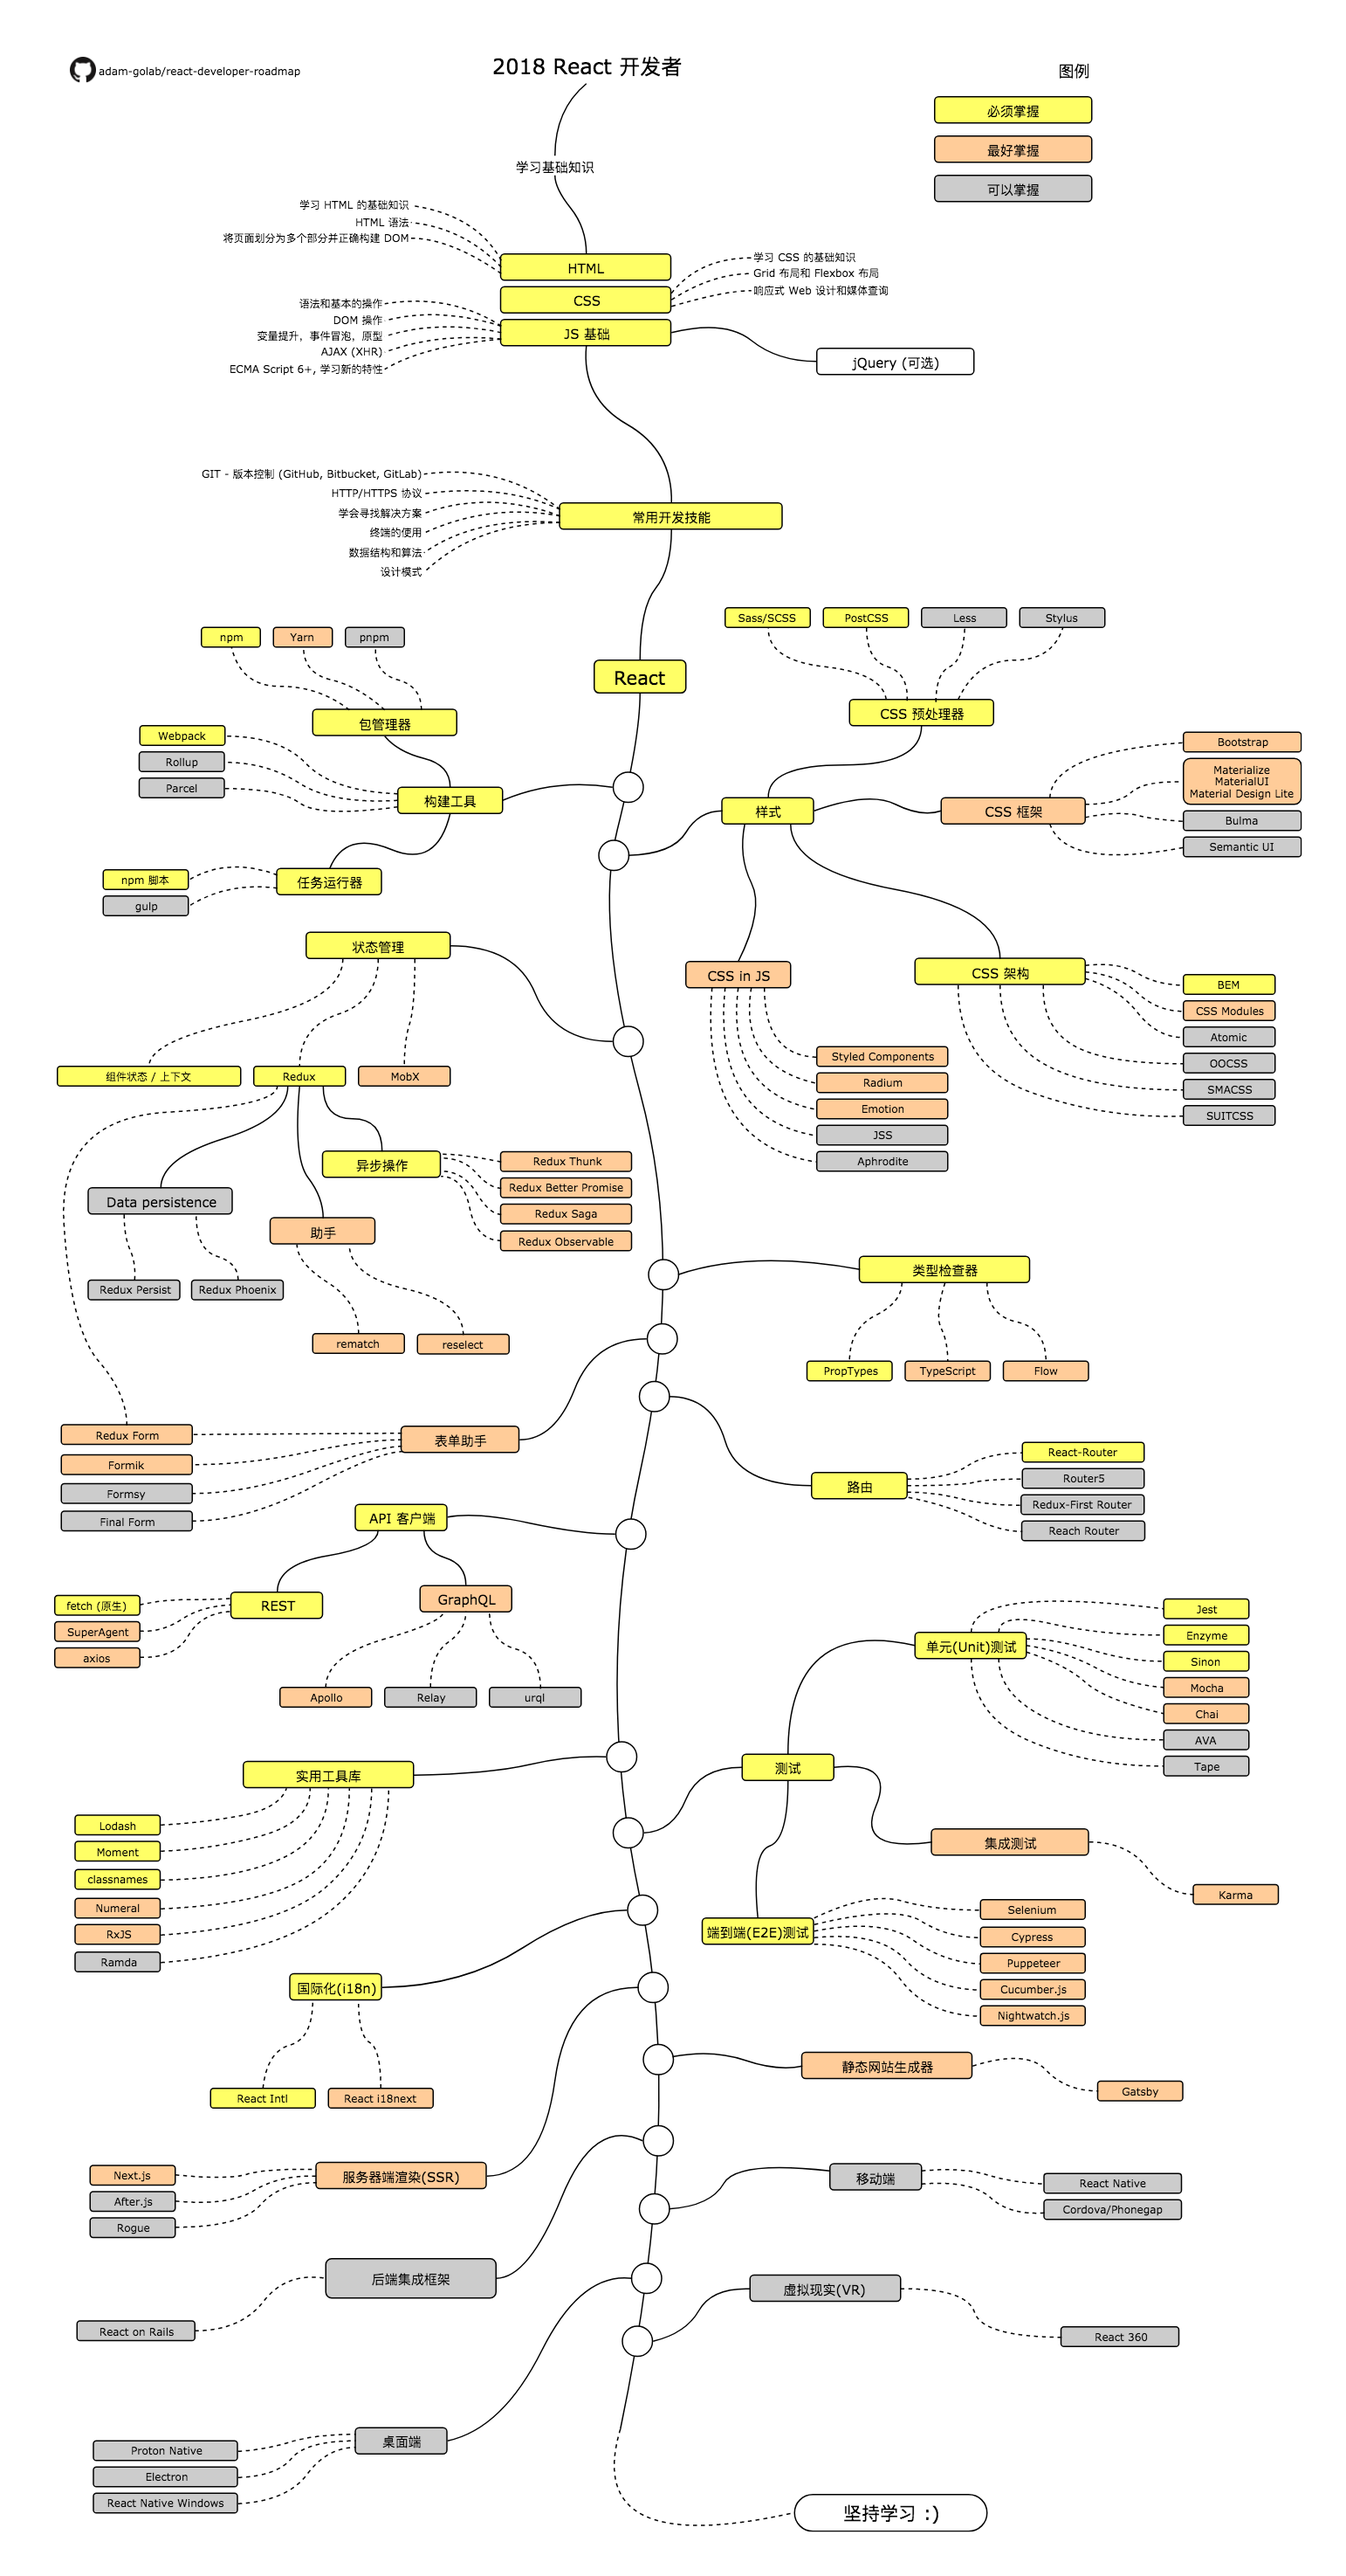
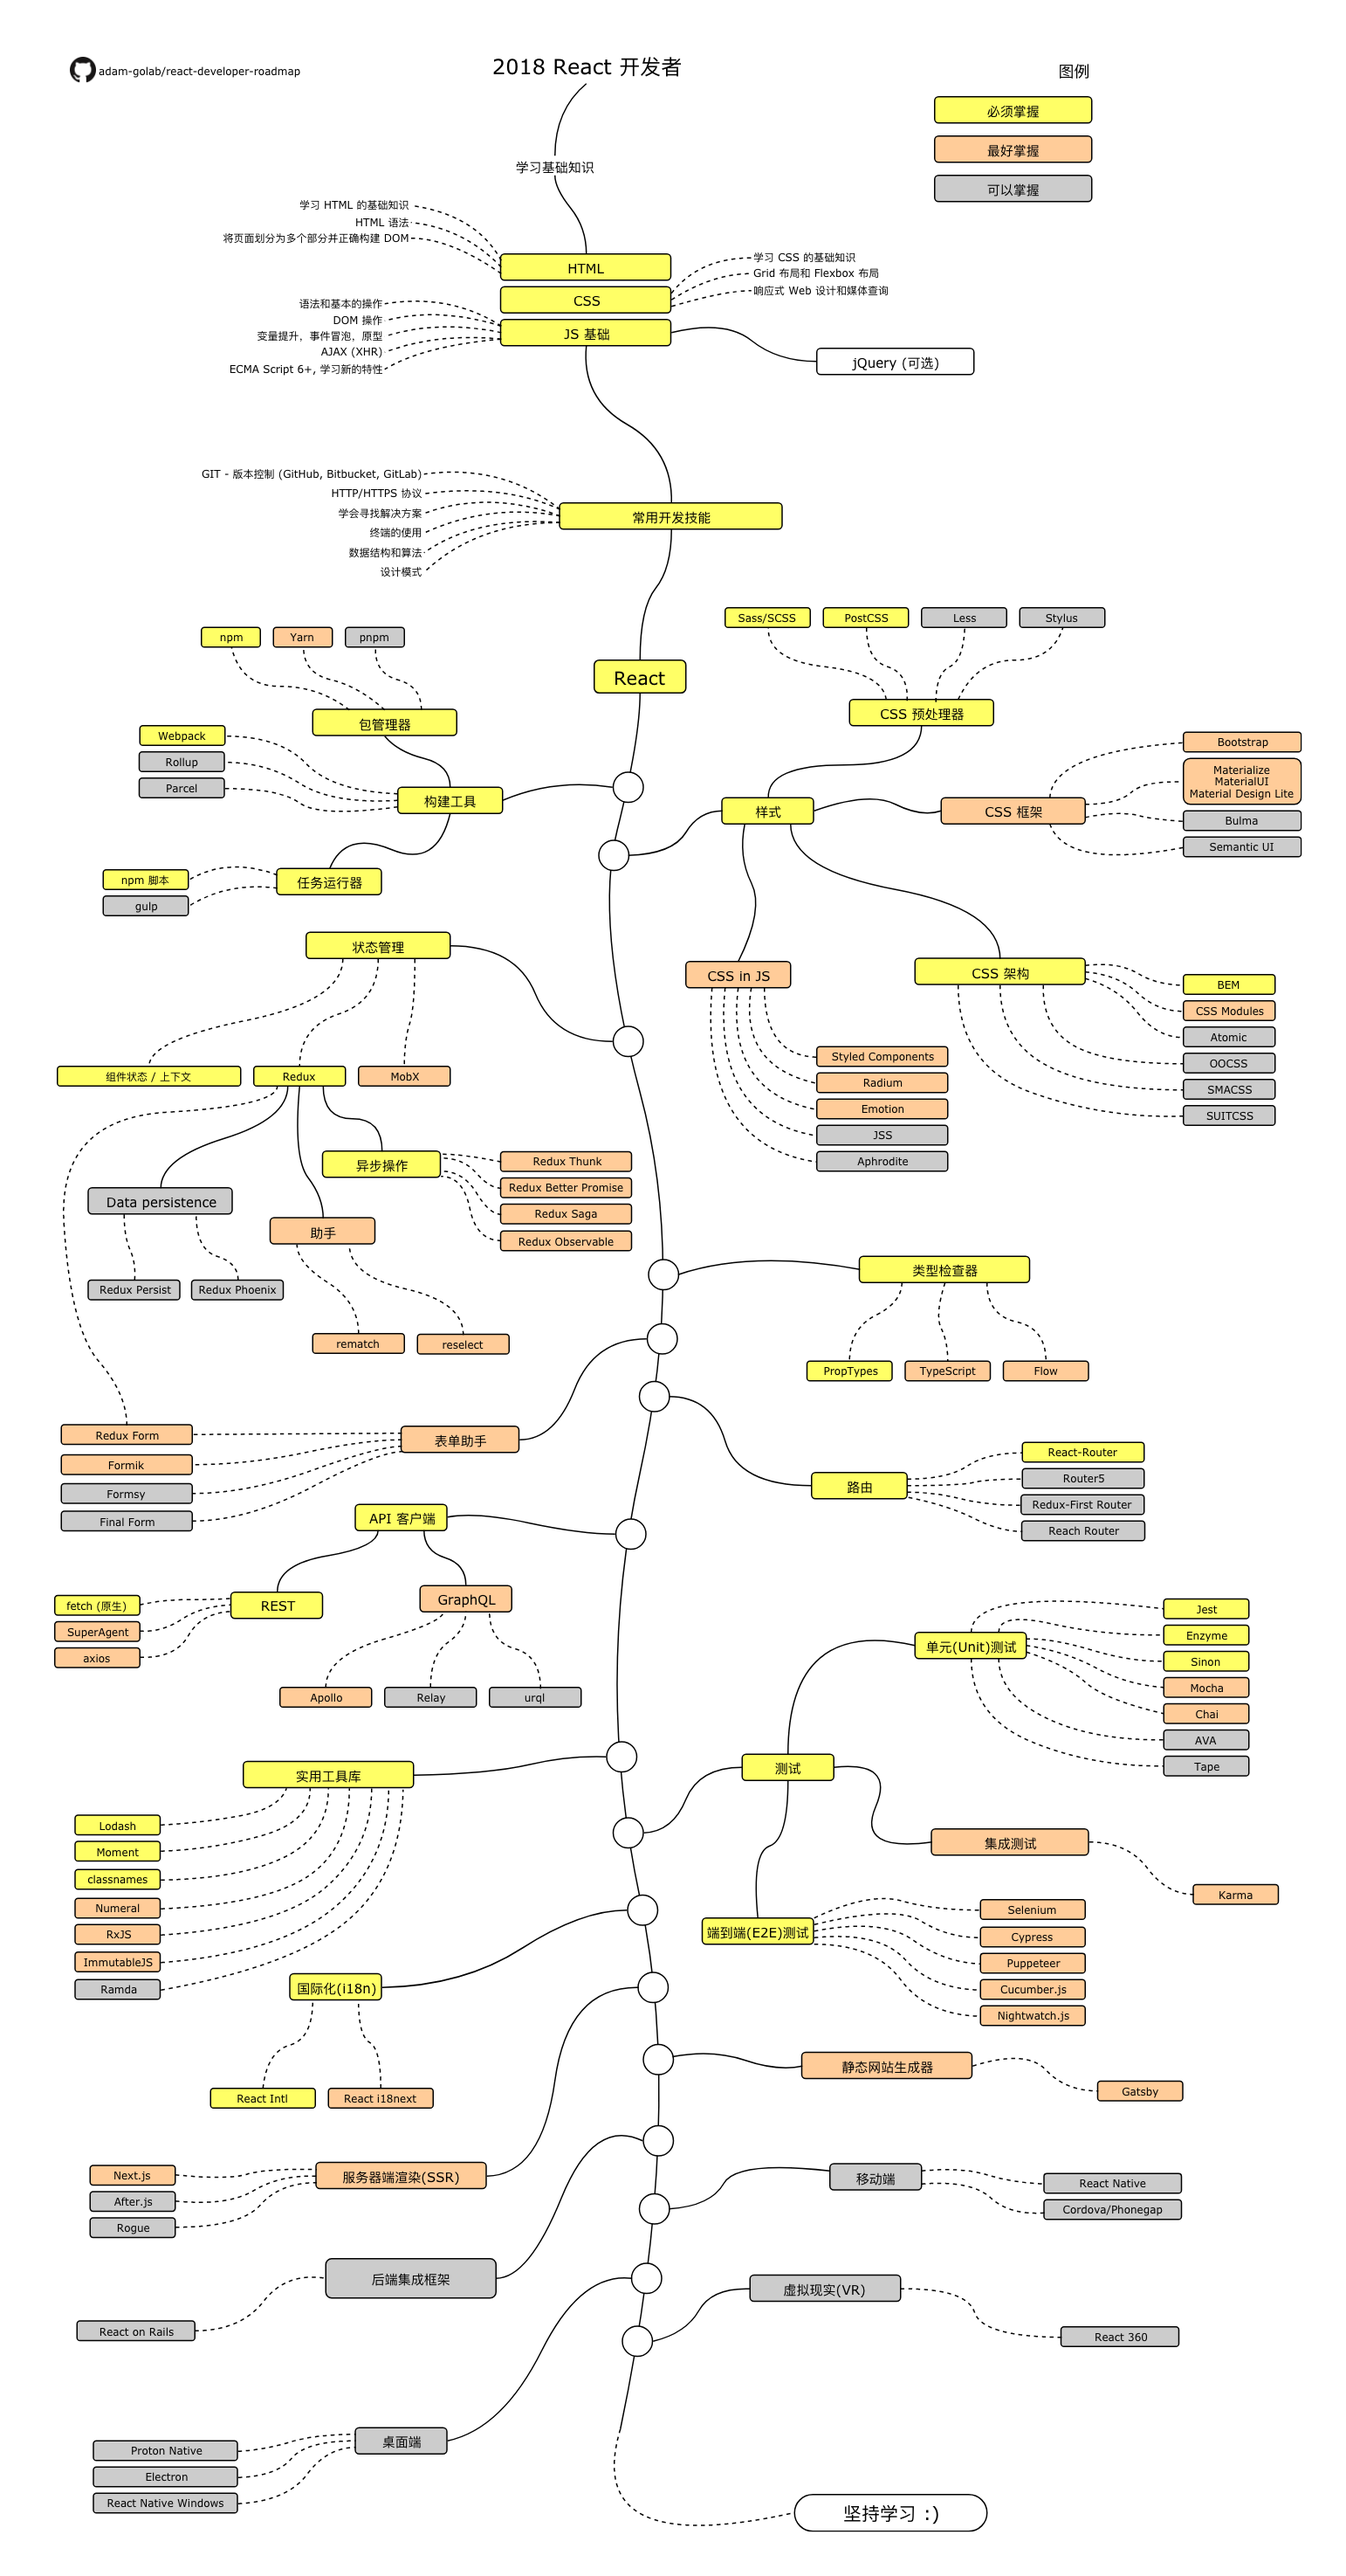
Added immutableJS

diff --git a/README.md b/README.md
@@ -118,8 +118,8 @@ Below you can find a chart demonstrating the paths that you can take and the lib
     * [classnames](https://github.com/JedWatson/classnames)
     * [Numeral](http://numeraljs.com/)
     * [RxJS](http://reactivex.io/)
-    * [Ramda](https://ramdajs.com/)
     * [ImmutableJS](https://facebook.github.io/immutable-js/)
+    * [Ramda](https://ramdajs.com/)
 12. Testing
     1. Unit Testing
         * [Jest](https://facebook.github.io/jest/)

diff --git a/README-RU.md b/README-RU.md
@@ -121,6 +121,7 @@
     * [classnames](https://github.com/JedWatson/classnames)
     * [Numeral](http://numeraljs.com/)
     * [RxJS](http://reactivex.io/)
+    * [ImmutableJS](https://facebook.github.io/immutable-js/)
     * [Ramda](https://ramdajs.com/)
 12. Тестирование
     1. Модульное тестирование

diff --git a/README-CN.md b/README-CN.md
@@ -120,6 +120,7 @@
     - [classnames](https://github.com/JedWatson/classnames)
     - [Numeral](http://numeraljs.com/)
     - [RxJS](http://reactivex.io/)
+    - [ImmutableJS](https://facebook.github.io/immutable-js/)
     - [Ramda](https://ramdajs.com/)
 12. 测试
     1.  单元（Unit）测试
